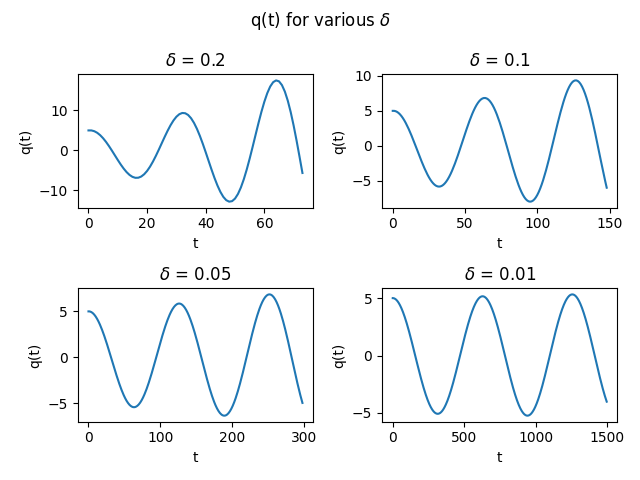
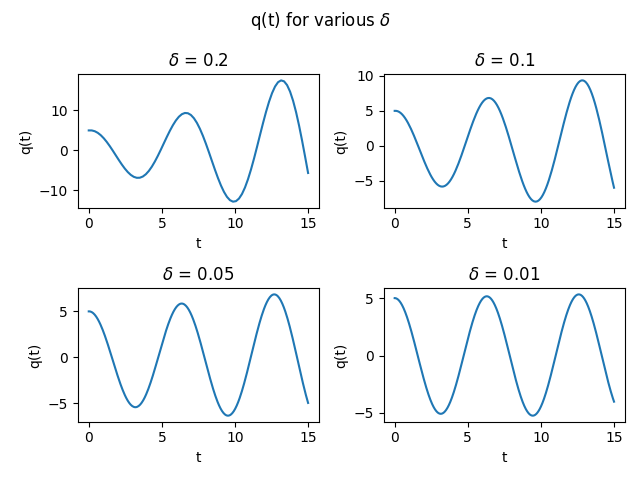
forward euler approx

diff --git a/forward_euler_approx.py b/forward_euler_approx.py
@@ -8,7 +8,9 @@ from matplotlib import pyplot as plt
 # Global parameters
 omega = 1
 
-# Forward euler approximation function
+# ==============================
+#  Forward euler approximation
+# ==============================
 def forward_euler_approx(q_initial, q_final, p_initial, delta):
     # Initalize parameters
     q0 = q_initial
@@ -38,37 +40,102 @@ q3, p3 = forward_euler_approx(5, 20, 0, deltas[2])
 q4, p4 = forward_euler_approx(5, 20, 0, deltas[3])
 
 # Multiplot q(t)
-fig, axs = plt.subplots(2, 2)
-fig.suptitle(r'q(t) for various $\delta$')
-axs[0, 0].plot(np.linspace(1, 100, int((q_end-q_start)//deltas[0])), q1)
-axs[0, 0].set_title(r'$\delta$ = ' + str(deltas[0]))
-axs[0, 1].plot(np.linspace(1, 100, int((q_end-q_start)//deltas[1])), q2)
-axs[0, 1].set_title(r'$\delta$ = ' + str(deltas[1]))
-axs[1, 0].plot(np.linspace(1, 100, int((q_end-q_start)//deltas[2])), q3)
-axs[1, 0].set_title(r'$\delta$ = ' + str(deltas[2]))
-axs[1, 1].plot(np.linspace(1, 100, int((q_end-q_start)//deltas[3])), q4)
-axs[1, 1].set_title(r'$\delta$ = ' + str(deltas[3]))
-for ax in axs.flat:
-    ax.set(xlabel='t', ylabel='q(t)')
-# for ax in axs.flat:
-#     ax.label_outer()
-plt.tight_layout()
-plt.show()
+def multiplot_qt():
+    fig, axs = plt.subplots(2, 2)
+    fig.suptitle(r'q(t) for various $\delta$')
+    axs[0, 0].plot(np.linspace(0, int(q_end-q_start), int((q_end-q_start)//deltas[0])), q1)
+    axs[0, 0].set_title(r'$\delta$ = ' + str(deltas[0]))
+    axs[0, 1].plot(np.linspace(0, int(q_end-q_start), int((q_end-q_start)//deltas[1])), q2)
+    axs[0, 1].set_title(r'$\delta$ = ' + str(deltas[1]))
+    axs[1, 0].plot(np.linspace(0, int(q_end-q_start), int((q_end-q_start)//deltas[2])), q3)
+    axs[1, 0].set_title(r'$\delta$ = ' + str(deltas[2]))
+    axs[1, 1].plot(np.linspace(0, int(q_end-q_start), int((q_end-q_start)//deltas[3])), q4)
+    axs[1, 1].set_title(r'$\delta$ = ' + str(deltas[3]))
+    for ax in axs.flat:
+        ax.set(xlabel='t', ylabel='q(t)')
+    # for ax in axs.flat:
+    #     ax.label_outer()
+    plt.tight_layout()
+    plt.show()
 
 # Multiplot p(q)
-fig, axs = plt.subplots(2, 2)
-fig.suptitle(r'p(q) for various $\delta$')
-axs[0, 0].plot(q1, p1)
-axs[0, 0].set_title(r'$\delta$ = ' + str(deltas[0]))
-axs[0, 1].plot(q2, p2)
-axs[0, 1].set_title(r'$\delta$ = ' + str(deltas[1]))
-axs[1, 0].plot(q3, p3)
-axs[1, 0].set_title(r'$\delta$ = ' + str(deltas[2]))
-axs[1, 1].plot(q4, p4)
-axs[1, 1].set_title(r'$\delta$ = ' + str(deltas[3]))
-for ax in axs.flat:
-    ax.set(xlabel='q(t)', ylabel='p(t)')
-# for ax in axs.flat:
-#     ax.label_outer()
-plt.tight_layout()
-plt.show()
+def multiplot_pq():
+    fig, axs = plt.subplots(2, 2)
+    fig.suptitle(r'p(q) for various $\delta$')
+    axs[0, 0].plot(q1, p1)
+    axs[0, 0].set_title(r'$\delta$ = ' + str(deltas[0]))
+    axs[0, 1].plot(q2, p2)
+    axs[0, 1].set_title(r'$\delta$ = ' + str(deltas[1]))
+    axs[1, 0].plot(q3, p3)
+    axs[1, 0].set_title(r'$\delta$ = ' + str(deltas[2]))
+    axs[1, 1].plot(q4, p4)
+    axs[1, 1].set_title(r'$\delta$ = ' + str(deltas[3]))
+    for ax in axs.flat:
+        ax.set(xlabel='q(t)', ylabel='p(t)')
+    # for ax in axs.flat:
+    #     ax.label_outer()
+    plt.tight_layout()
+    plt.show()
+
+# Phase portrait p(q)
+def phase_portrait(delta):
+    q1, p1 = forward_euler_approx(4.9, 20, 0, delta)
+    q2, p2 = forward_euler_approx(5.0, 20, 0, delta)
+    q3, p3 = forward_euler_approx(5.1, 20, 0, delta)
+    q4, p4 = forward_euler_approx(5.2, 20, 0, delta)
+    plt.plot(q1, p1, color='r', label = '4.9')
+    plt.plot(q2, p2, color='g', label = '5.0')
+    plt.plot(q3, p3, color='b', label = '5.1')
+    plt.plot(q4, p4, color='k', label = '5.2')
+    plt.xlabel('q(t)')
+    plt.ylabel('p(t)')
+    plt.title('Forward Euler Approximation - Phase portrait')
+    plt.legend()
+    plt.show()
+
+# Total error calculation
+def total_error(step_sizes: list):
+    actual = -5*np.sin(np.pi/2)
+    print(f'actual: {actual}')
+    errors = []
+    for delta in step_sizes:
+        q, p = forward_euler_approx(5, 20, 0, delta)
+        q_final = q[-1]
+        print(f'delta: {delta}, q_final: {q_final}')
+        total_error = q_final-actual
+        errors.append(total_error)
+    return step_sizes, errors
+
+#Total error plot
+def total_error_plot(step_sizes: list):
+    x, y = total_error(step_sizes)
+    plt.plot(x, y, 'b', label = 'Total Error')
+    x_quad = np.linspace(0,0.2,100)
+    y_quad = x_quad**2
+    plt.plot(x_quad, y_quad, 'r', linestyle='dashed', label = r'$+x^2$')
+    plt.plot(x_quad, -y_quad, 'r', linestyle='dotted', label = r'$-x^2$')
+    plt.xlabel(r'$\delta$')
+    plt.ylabel('Total Error')
+    plt.legend()
+    plt.title(r'Graph of total error vs step size $\delta$')
+    plt.show()
+
+# Stanalone function for comparing numerical approx at step-size
+# 0.1 with the analytical solution. Mainly used to make sure
+# I have the correct start and end points.
+def comparison_plot():
+    q, p = forward_euler_approx(5, 20, 0, deltas[2])
+    t = np.linspace(0, int(q_end-q_start), int((q_end-q_start)//deltas[2]))
+    print(f't: {t}')
+    plt.plot(t, q)
+    x = np.arange(0,15,deltas[2])   # start,stop,step
+    y = np.cos(x)
+    plt.plot(x,y,'r')
+    plt.show()
+
+# Comment these in or out depending on which plot you want to see
+# multiplot_qt()
+# multiplot_pq()
+# phase_portrait(deltas[2])
+total_error_plot(np.arange(0.01, 0.2, 0.002))
+# comparison_plot()
